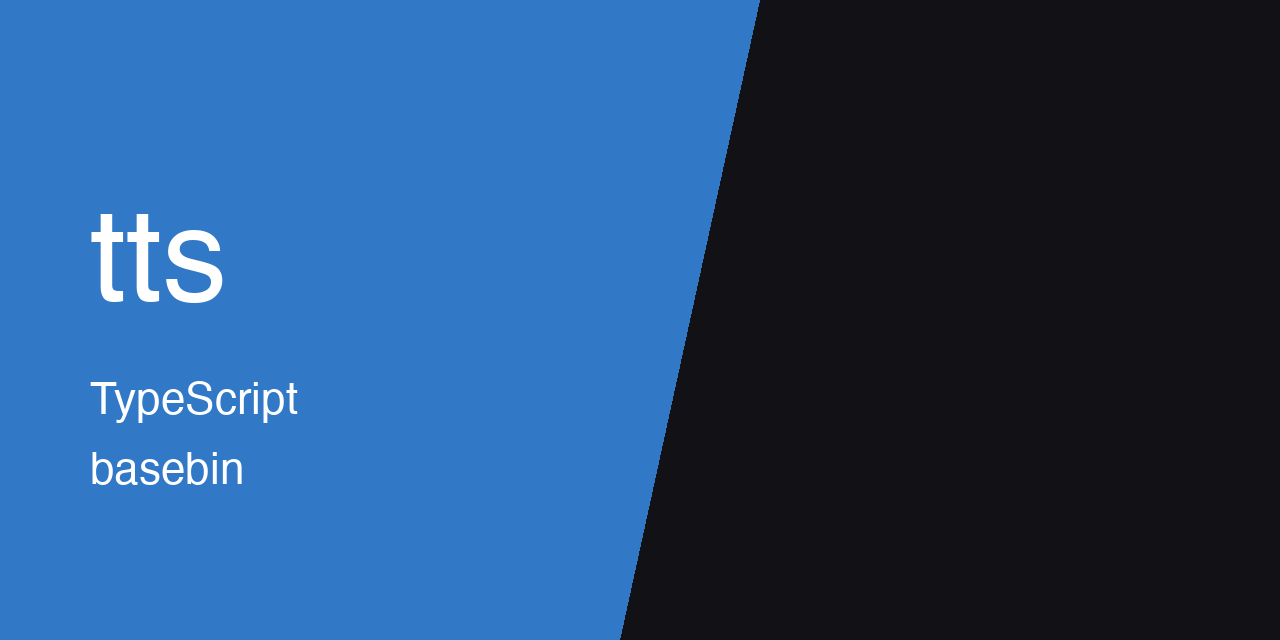
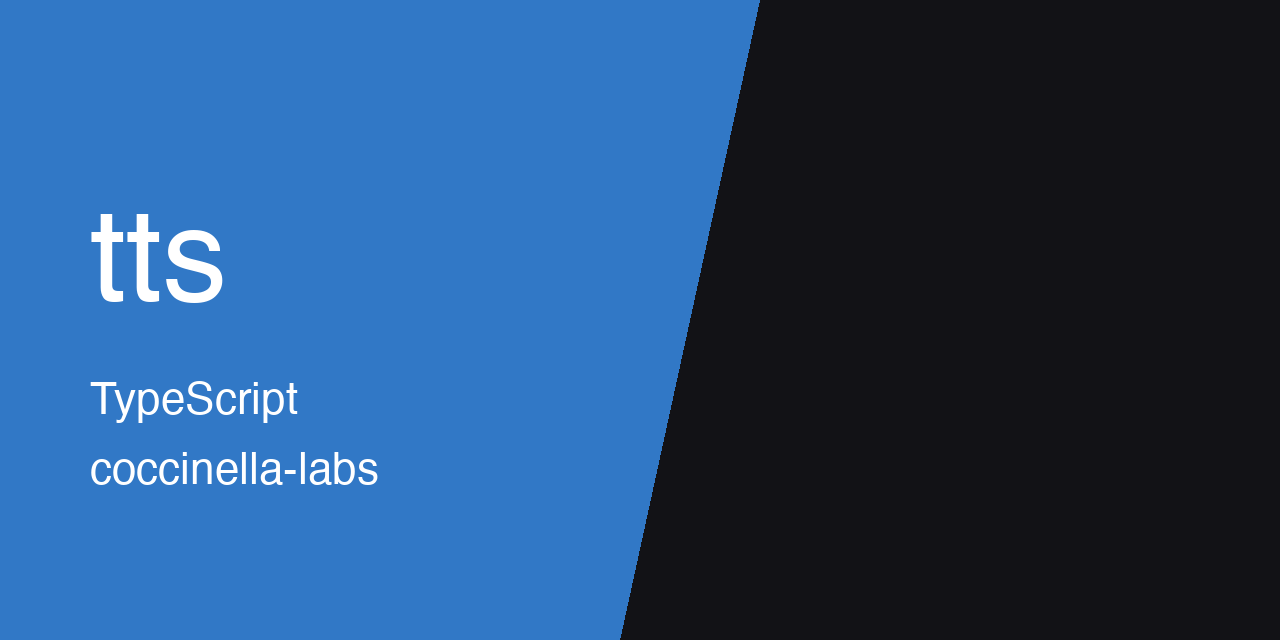
[docs] move thumbnail to coccinella-labs

Changed region(s): [[0.0625, 0.7188, 0.3125, 0.7812]]

diff --git a/README.md b/README.md
@@ -1,5 +1,5 @@
 <p align="center">
-  <img src="https://raw.githubusercontent.com/basebin/tts/main/.github/assets/thumbnail.png" alt="tts" width="100%">
+  <img src="https://raw.githubusercontent.com/Coccinella-Labs/tts/main/.github/assets/thumbnail.png" alt="tts" width="100%">
 </p>
 
 # Google Gemini tts CLI
